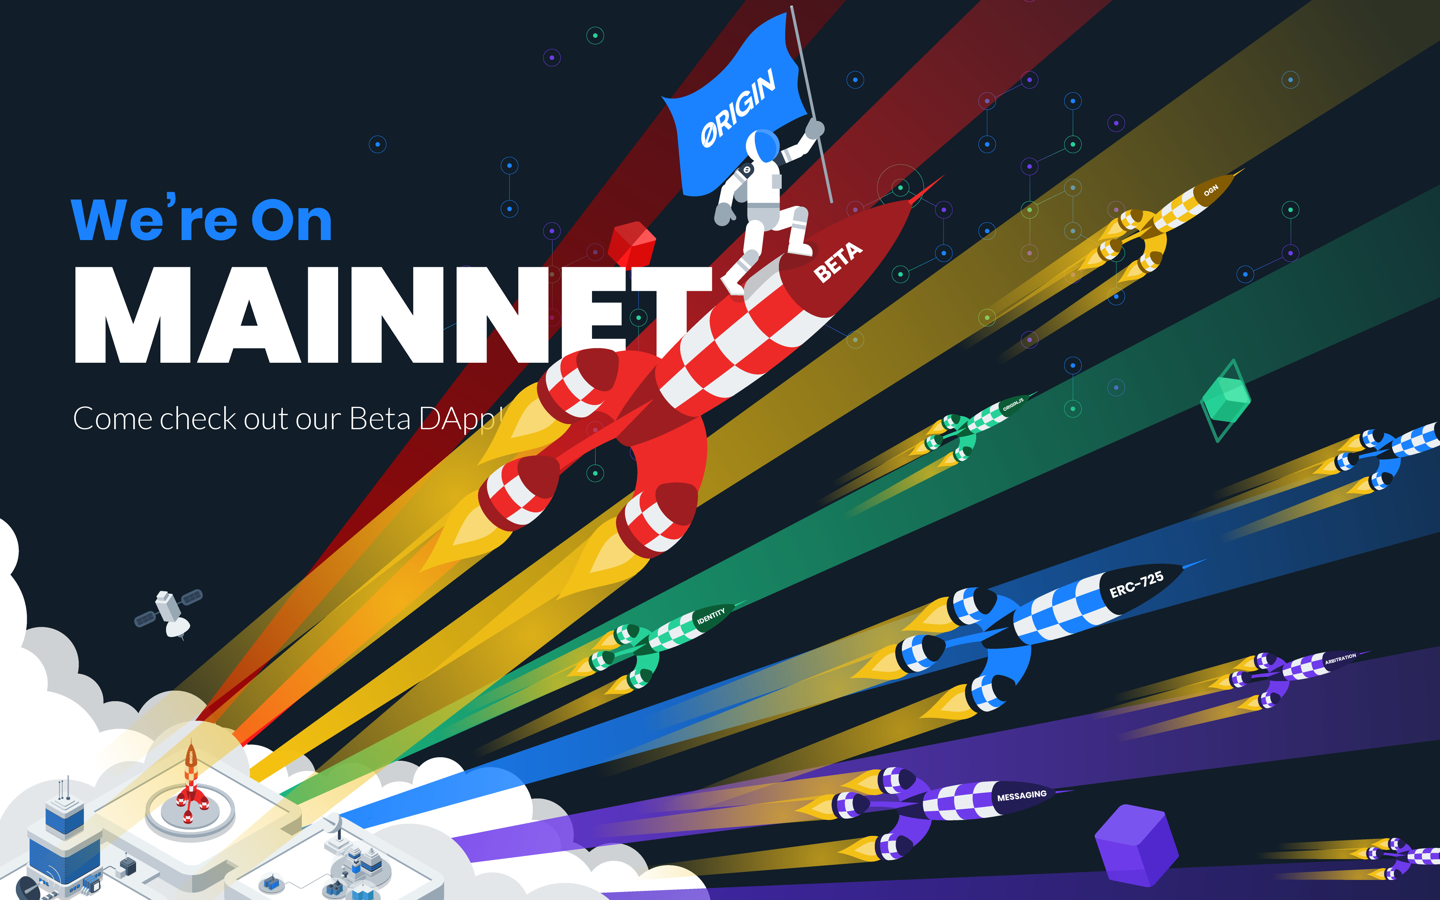
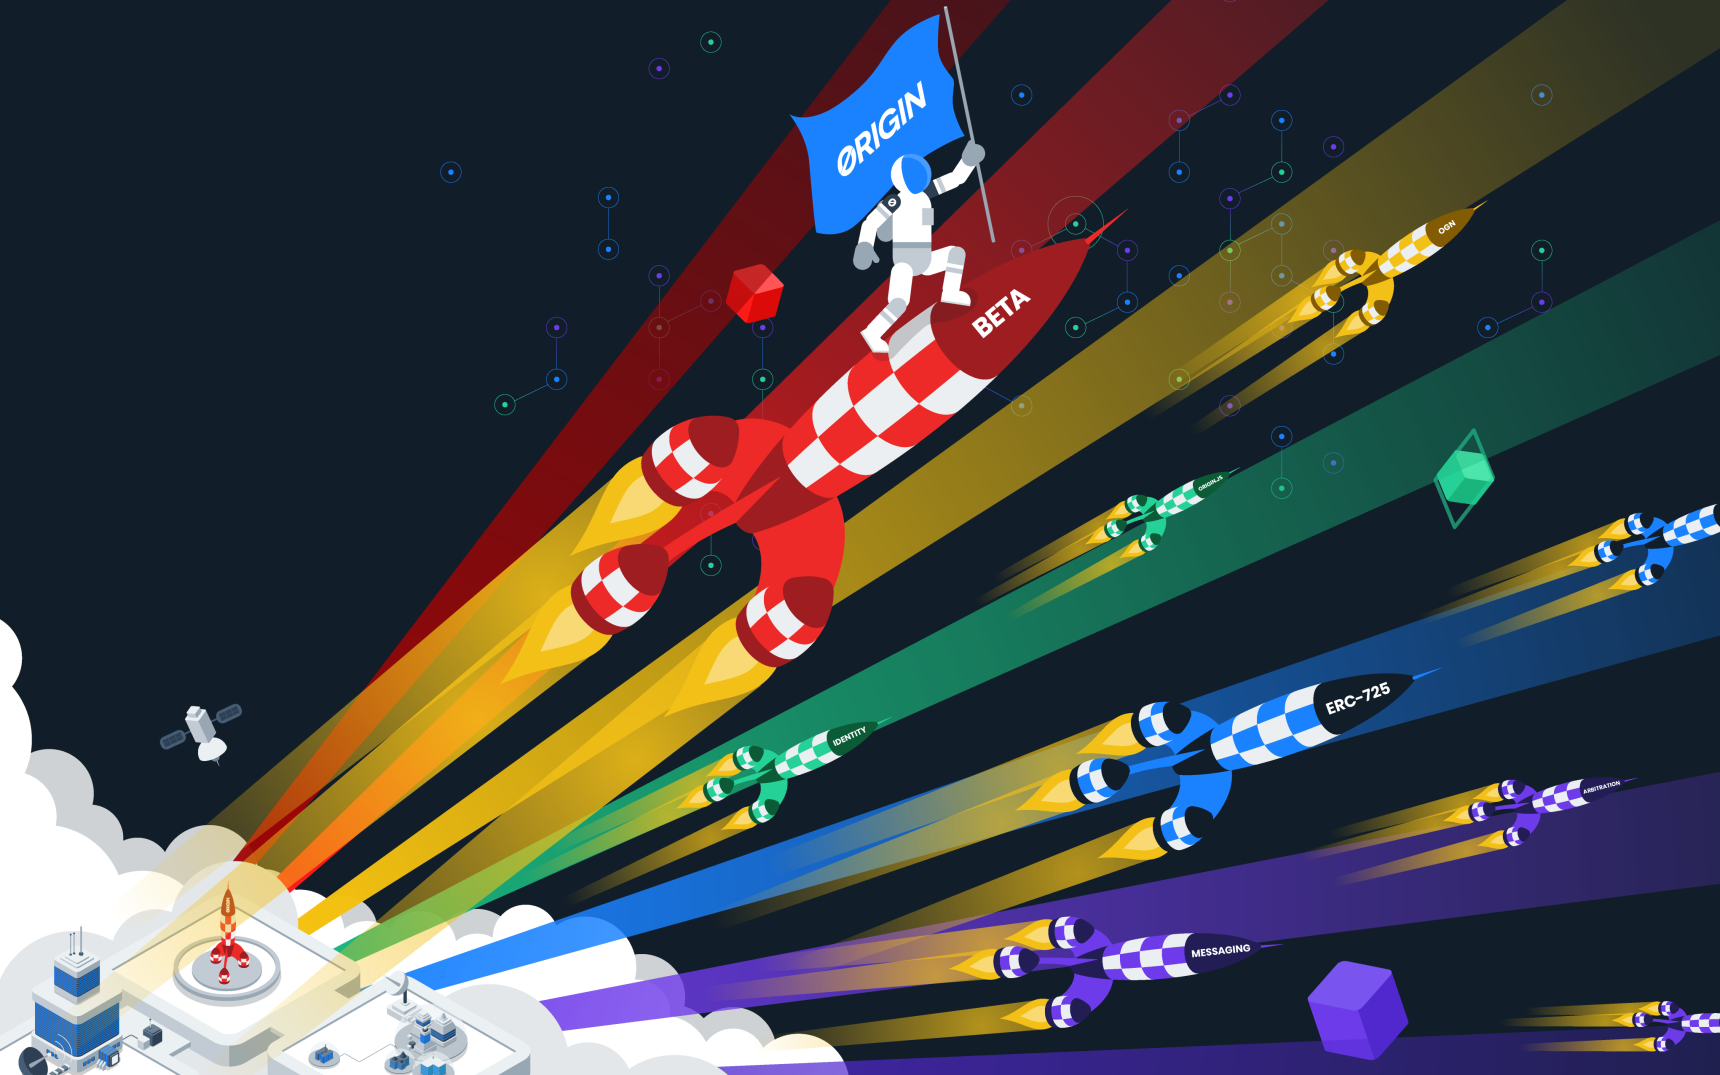
slightly responsive

diff --git a/static/css/style.css b/static/css/style.css
@@ -645,6 +645,7 @@ footer .company-mission {
   background-size: cover;
   z-index: 9999999;
   position:fixed;
+  padding-left:60px;
 }
 .mainnet-modal .close-button {
   position:absolute;
@@ -652,6 +653,30 @@ footer .company-mission {
   right:60px;
   cursor:pointer;
 }
+.mainnet-modal h2 {
+  font-size: 60px;
+  line-height: 60px;
+  color:#1a82ff;
+  font-family: 'Lato', sans-serif;
+  font-weight: 700;
+  margin:0;
+  margin-top:200px;
+}
+.mainnet-modal h1 {
+  margin: 0;
+  font-size: 180px;
+  line-height: 180px;
+  color:#fff;
+  font-family: 'Poppins', sans-serif;
+  font-weight: 800;
+}
+.mainnet-modal h3 {
+  margin: 0;
+  font-size: 40px;
+  line-height: 40px;
+  color:#fff;
+}
+
 
 /* Index Page */
 
